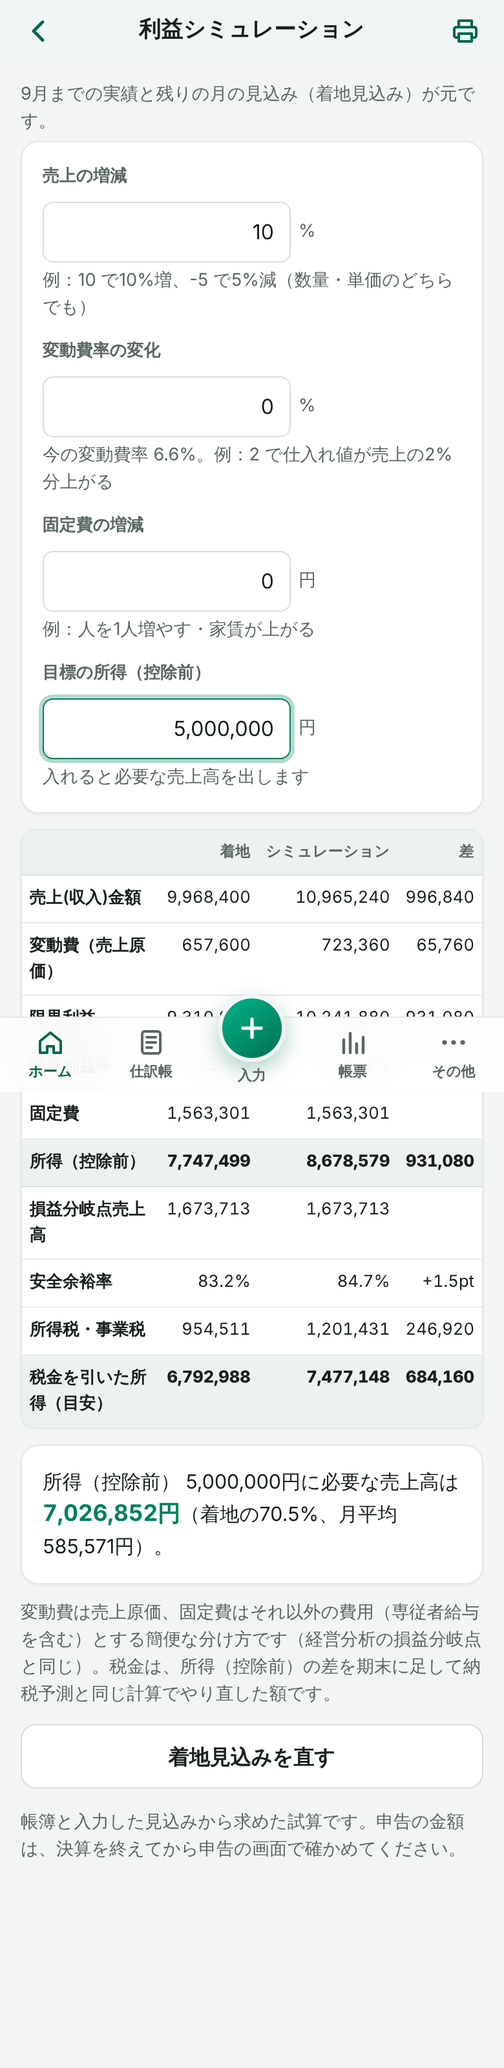
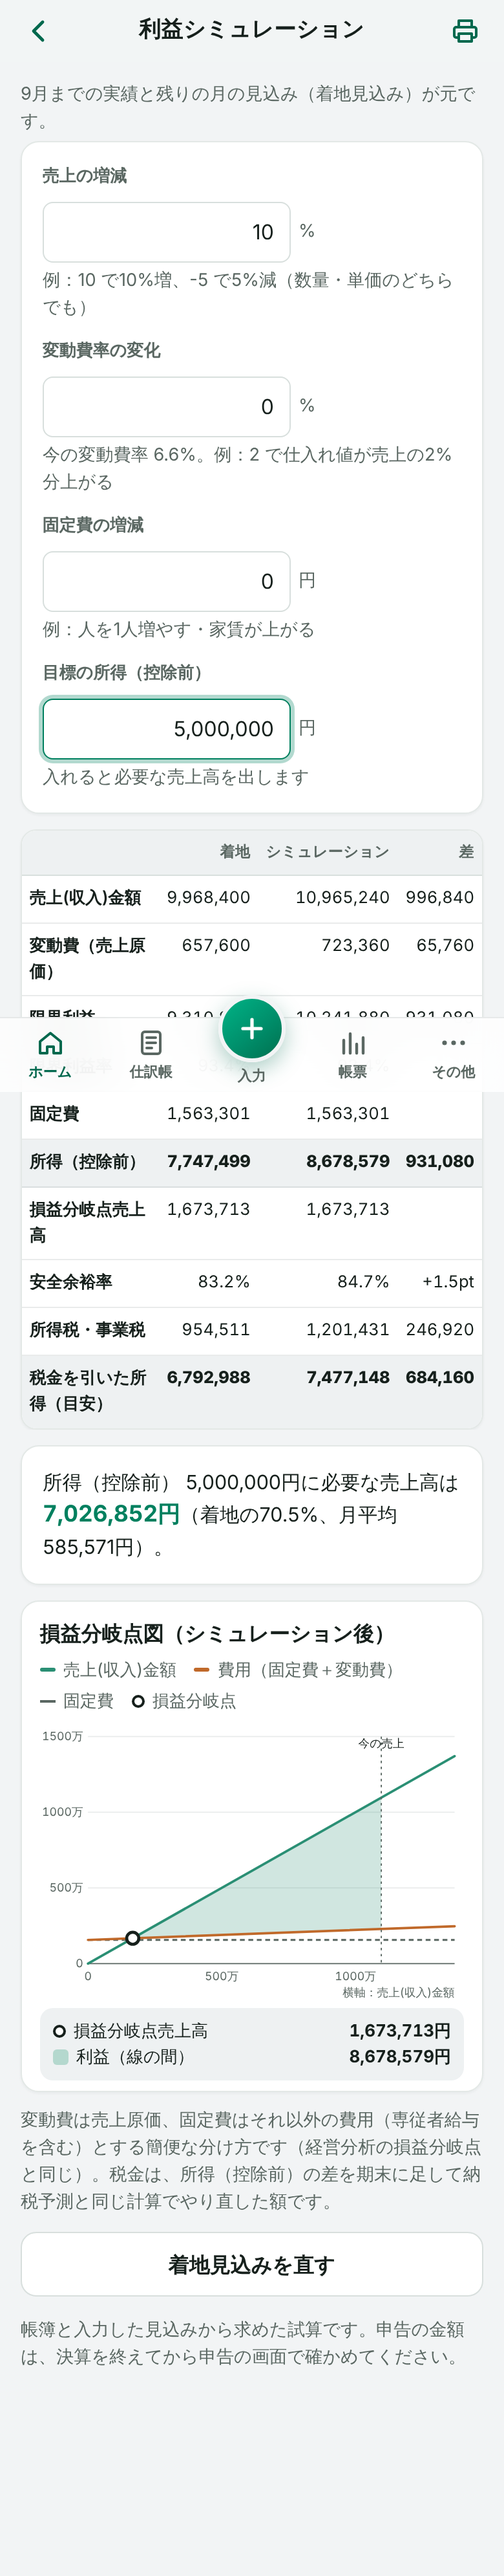
グラフを追加：損益分岐点図・貸借対照表の比例縮尺図・指標の当期前期比較・納付のカレンダー・節税の比較
Claude-Session: https://claude.ai/code/session_01S9p1vYnHBJ4ErFDDdxAS1g

diff --git a/js/chart.js b/js/chart.js
@@ -190,3 +190,135 @@ export function lineChart({ labels, series, title, planFrom = labels.length }) {
   );
   return h('figure', { class: 'chart panel' }, h('figcaption', { class: 'chart-title', text: title }), legend, h('div', { class: 'chart-area' }, svgEl), tip);
 }
+
+/**
+ * 横棒の比較（CSS の棒。1行に1〜2本）
+ * @param {{ title: string, rows: Array<{ label: string, sub?: string, values: Array<number|null> }>, series: Array<{ label: string, cls: string }>, format: (v:number)=>string, scale?: 'all'|'row' }} opts
+ *   scale：'all' はすべての行で同じ物差し、'row' は行ごとに一番大きい値を100%にする（桁の違う指標を並べるとき）
+ *   cls：棒の色のクラス（hb-1：--chart-1、hb-2：--chart-2、hb-3：--chart-2 を薄く）。負の値は長さ0で、数字だけ出す
+ * @returns {HTMLElement}
+ */
+export function hBarChart({ title, rows, series, format, scale = 'all' }) {
+  const maxOf = (xs) => Math.max(1, ...xs.filter((v) => v !== null && v > 0));
+  const allMax = maxOf(rows.flatMap((r) => r.values));
+  const pct = (v, max) => (v === null || v <= 0 ? 0 : Math.max(1, Math.round((v * 1000) / max) / 10));
+  const legend = series.length > 1 ? h('div', { class: 'ch-legend' }, series.map((s) => h('span', { class: 'ch-key' }, h('span', { class: `ch-sw ${s.cls}` }), s.label))) : null;
+  return h(
+    'figure',
+    { class: 'chart panel hbar' },
+    h('figcaption', { class: 'chart-title', text: title }),
+    legend,
+    h(
+      'div',
+      { class: 'hbar-rows', role: 'list' },
+      rows.map((r) => {
+        const max = scale === 'row' ? maxOf(r.values) : allMax;
+        return h(
+          'div',
+          { class: 'hbar-row', role: 'listitem' },
+          h('div', { class: 'hbar-label' }, h('span', { text: r.label }), r.sub ? h('span', { class: 'muted small', text: r.sub }) : null),
+          r.values.map((v, i) =>
+            h(
+              'div',
+              { class: 'hbar-line' },
+              h('span', { class: 'hbar-track', 'aria-hidden': 'true' }, h('span', { class: `hbar-bar ${series[i].cls}`, style: `width:${pct(v, max)}%` })),
+              h('span', { class: `hbar-num num ${v < 0 ? 'neg' : ''}`, 'aria-label': `${series[i].label} ${v === null ? 'なし' : format(v)}`, text: v === null ? '—' : format(v) }),
+            ),
+          ),
+        );
+      }),
+    ),
+  );
+}
+
+/**
+ * 損益分岐点図：横軸は売上高、縦軸は金額。売上の線（原点から45度）と総費用の線（固定費＋変動費率×売上）が交わる点が損益分岐点
+ * @param {{ sales: number, variable: number, fixed: number, title: string, salesLabel?: string }} p 着地（またはシミュレーション後）の数字
+ * @returns {HTMLElement|null} 売上が0以下なら null
+ */
+export function breakEvenChart({ sales, variable, fixed, title, salesLabel = '売上高' }) {
+  if (sales <= 0) return null;
+  const rate = variable / sales; // 表示のための比（金額の計算には使わない）
+  const marginal = sales - variable;
+  const point = marginal > 0 && fixed > 0 ? Math.round((fixed * sales) / marginal) : marginal > 0 ? 0 : null;
+  const xMax = Math.max(sales, point ?? 0) * 1.25;
+  const cost = (x) => fixed + rate * x;
+  const ticks = axisTicks([0, xMax, cost(xMax), fixed]);
+  const lo = Math.min(0, ticks[0]);
+  const hi = ticks.at(-1);
+  const W = 360;
+  const H = 230;
+  const pad = { l: 44, r: 12, t: 12, b: 30 };
+  const xs = (x) => pad.l + (x / xMax) * (W - pad.l - pad.r);
+  const ys = (v) => pad.t + ((hi - v) / (hi - lo)) * (H - pad.t - pad.b);
+  const xTicks = axisTicks([0, xMax]).filter((t) => t >= 0 && t <= xMax);
+  const grid = ticks.map((t) => s('g', {}, s('line', { x1: pad.l, x2: W - pad.r, y1: ys(t), y2: ys(t), class: t === 0 ? 'ch-zero' : 'ch-grid' }), s('text', { x: pad.l - 4, y: ys(t) + 3, class: 'ch-tick', 'text-anchor': 'end' }, compactYen(t))));
+  const xLabels = xTicks.map((t) => s('text', { x: xs(t), y: H - 16, class: 'ch-tick', 'text-anchor': 'middle' }, compactYen(t)));
+  const profit = sales - variable - fixed;
+  // 利益（黒字）は売上の線と費用の線の間を塗る
+  const area = s('polygon', { points: `${xs(sales)},${ys(sales)} ${xs(sales)},${ys(cost(sales))} ${point !== null ? `${xs(point)},${ys(point)}` : ''}`, class: profit >= 0 ? 'be-profit' : 'be-loss' });
+  const svgEl = s(
+    'svg',
+    { viewBox: `0 0 ${W} ${H}`, class: 'chart-svg', role: 'img', 'aria-label': `${title}：損益分岐点売上高 ${point === null ? 'なし' : `${formatYen(point)}円`}、${salesLabel} ${formatYen(sales)}円` },
+    grid,
+    point !== null ? area : null,
+    s('line', { x1: xs(0), y1: ys(fixed), x2: xs(xMax), y2: ys(fixed), class: 'be-fixed' }),
+    s('line', { x1: xs(0), y1: ys(0), x2: xs(xMax), y2: ys(xMax), class: 'ch-line ch-line-1' }),
+    s('line', { x1: xs(0), y1: ys(fixed), x2: xs(xMax), y2: ys(cost(xMax)), class: 'ch-line' }),
+    s('line', { x1: xs(sales), y1: pad.t, x2: xs(sales), y2: H - pad.b, class: 'be-now' }),
+    s('text', { x: xs(sales), y: pad.t + 9, class: 'ch-tick be-now-label', 'text-anchor': xs(sales) > W - 60 ? 'end' : 'middle' }, '今の売上'),
+    point !== null ? s('circle', { cx: xs(point), cy: ys(point), r: 5, class: 'be-point' }) : null,
+    s('text', { x: W - pad.r, y: H - 3, class: 'ch-tick', 'text-anchor': 'end' }, `横軸：${salesLabel}`),
+    xLabels,
+  );
+  const legend = h(
+    'div',
+    { class: 'ch-legend' },
+    h('span', { class: 'ch-key' }, h('span', { class: 'ch-sw ch-sw-line1' }), salesLabel),
+    h('span', { class: 'ch-key' }, h('span', { class: 'ch-sw ch-sw-line' }), '費用（固定費＋変動費）'),
+    h('span', { class: 'ch-key' }, h('span', { class: 'ch-sw be-sw-fixed' }), '固定費'),
+    h('span', { class: 'ch-key' }, h('span', { class: 'ch-sw be-sw-point' }), '損益分岐点'),
+  );
+  const readout = h(
+    'div',
+    { class: 'ch-readout' },
+    h('div', { class: 'ch-tip-row' }, h('span', { class: 'ch-sw be-sw-point' }), h('span', { text: '損益分岐点売上高' }), h('span', { class: 'num', text: point === null ? '—（限界利益がマイナス）' : `${formatYen(point)}円` })),
+    h('div', { class: 'ch-tip-row' }, h('span', { class: `ch-sw ${profit >= 0 ? 'be-sw-profit' : 'be-sw-loss'}` }), h('span', { text: profit >= 0 ? '利益（線の間）' : '損失（線の間）' }), h('span', { class: `num ${profit < 0 ? 'neg' : ''}`, text: `${formatYen(profit)}円` })),
+  );
+  return h('figure', { class: 'chart panel' }, h('figcaption', { class: 'chart-title', text: title }), legend, h('div', { class: 'chart-area' }, svgEl), readout);
+}
+
+/**
+ * 貸借対照表の比例縮尺図（左に資産、右に負債・純資産を金額の大きさで積む）
+ * @param {{ title: string, left: Array<{label, value}>, right: Array<{label, value}> }} p right の純資産が負（債務超過）なら左に「債務超過」の箱を足す
+ * @returns {HTMLElement}
+ */
+export function bsBoxChart({ title, left, right }) {
+  const pos = (xs) => xs.filter((x) => x.value > 0);
+  const net = right.find((x) => x.net);
+  const deficit = net && net.value < 0 ? -net.value : 0;
+  const leftBoxes = [...pos(left), ...(deficit ? [{ label: '債務超過', value: deficit, deficit: true }] : [])];
+  const rightBoxes = pos(right);
+  const total = Math.max(1, leftBoxes.reduce((t, x) => t + x.value, 0), rightBoxes.reduce((t, x) => t + x.value, 0));
+  const col = (boxes, side) =>
+    h(
+      'div',
+      { class: `bsbox-col bsbox-${side}` },
+      boxes.map((b, i) =>
+        h(
+          'div',
+          { class: `bsbox-box bsbox-${side}-${i}${b.deficit ? ' bsbox-deficit' : ''}${b.net ? ' bsbox-net' : ''}${b.value * 100 < total * 12 ? ' is-small' : ''}`, style: `flex-grow:${b.value}` },
+          h('span', { class: 'bsbox-name', text: b.label }),
+          h('span', { class: 'bsbox-val num', text: `${compactYen(b.value)}（${Math.round((b.value * 100) / total)}%）` }),
+        ),
+      ),
+    );
+  const sumL = left.reduce((t, x) => t + Math.max(0, x.value), 0);
+  return h(
+    'figure',
+    { class: 'chart panel bsbox' },
+    h('figcaption', { class: 'chart-title', text: title }),
+    h('div', { class: 'bsbox-grid', role: 'img', 'aria-label': `${title}：${[...leftBoxes, ...rightBoxes].map((b) => `${b.label} ${formatYen(b.value)}円`).join('、')}` }, col(leftBoxes, 'l'), col(rightBoxes, 'r')),
+    h('p', { class: 'muted small', text: `総資産 ${formatYen(sumL)}円。箱の高さは金額に比例します。` }),
+  );
+}

diff --git a/css/style.css b/css/style.css
@@ -1627,3 +1627,44 @@ input.tc-code-input[type="text"] { width: 7.5rem; flex: none; min-height: 40px; 
 .st-bar-cash, .st-sw-cash { background: var(--chart-1); }
 .sim-check { display: flex; align-items: center; gap: 8px; }
 .sim-inputs-sub[hidden] { display: none; }
+
+/* 横棒の比較 */
+.hbar-rows { display: grid; gap: 10px; margin: 4px 4px 2px; }
+.hbar-label { display: flex; flex-wrap: wrap; gap: 2px 8px; align-items: baseline; font-size: var(--fs-footnote); font-weight: 700; }
+.hbar-line { display: grid; grid-template-columns: 1fr auto; align-items: center; gap: 8px; margin-top: 3px; }
+.hbar-track { display: block; height: 10px; border-radius: 5px; background: var(--surface-2); overflow: hidden; }
+.hbar-bar { display: block; height: 100%; border-radius: 5px; }
+.hbar-num { font-size: var(--fs-footnote); min-width: 6.5em; text-align: right; }
+.hb-1 { background: var(--chart-1); }
+.hb-2 { background: var(--chart-2); }
+.hb-3 { background: color-mix(in srgb, var(--chart-2) 40%, var(--surface)); }
+.hb-4 { background: color-mix(in srgb, var(--chart-1) 40%, var(--surface)); }
+
+/* 損益分岐点図 */
+.be-fixed { stroke: var(--muted); stroke-width: 1.5; stroke-dasharray: 4 3; }
+.be-now { stroke: var(--muted); stroke-width: 1; stroke-dasharray: 2 3; }
+.be-now-label { fill: var(--text); }
+.be-point { fill: var(--surface); stroke: var(--text); stroke-width: 2.5; }
+.be-profit { fill: color-mix(in srgb, var(--chart-1) 22%, transparent); }
+.be-loss { fill: color-mix(in srgb, var(--negative) 18%, transparent); }
+.be-sw-fixed { height: 0; border-top: 2px dashed var(--muted); border-radius: 0; background: none; }
+.be-sw-point { border: 2.5px solid var(--text); border-radius: 50%; background: var(--surface); width: 10px; height: 10px; }
+.be-sw-profit { background: color-mix(in srgb, var(--chart-1) 35%, var(--surface)); }
+.be-sw-loss { background: color-mix(in srgb, var(--negative) 30%, var(--surface)); }
+
+/* 貸借対照表の比例縮尺図 */
+.bsbox-grid { display: grid; grid-template-columns: 1fr 1fr; gap: 3px; height: 260px; margin: 4px; }
+.bsbox-col { display: flex; flex-direction: column; gap: 3px; min-height: 0; }
+.bsbox-box { flex-basis: 0; min-height: 24px; border-radius: 6px; padding: 4px 6px; display: flex; flex-direction: column; justify-content: center; align-items: flex-start; overflow: hidden; color: #fff; font-size: 0.72rem; line-height: 1.25; }
+.bsbox-box.is-small { flex-direction: row; flex-wrap: wrap; align-items: center; gap: 0 6px; padding: 2px 6px; font-size: 0.64rem; }
+.bsbox-name { font-weight: 800; }
+.bsbox-val { opacity: 0.95; }
+.bsbox-l-0 { background: var(--chart-1); }
+.bsbox-l-1 { background: color-mix(in srgb, var(--chart-1) 70%, #000); }
+.bsbox-l-2 { background: color-mix(in srgb, var(--chart-1) 55%, var(--surface)); color: var(--text); }
+.bsbox-r-0 { background: var(--chart-2); }
+.bsbox-r-1 { background: color-mix(in srgb, var(--chart-2) 70%, #000); }
+.bsbox-net { background: color-mix(in srgb, var(--chart-2) 35%, var(--surface)); color: var(--text); }
+.bsbox-deficit { background: repeating-linear-gradient(45deg, color-mix(in srgb, var(--negative) 35%, var(--surface)) 0 6px, var(--surface) 6px 12px); color: var(--negative); border: 1px solid var(--negative); }
+.bsbox-pair { display: grid; gap: var(--sp-2); }
+@media (min-width: 700px) { .bsbox-pair { grid-template-columns: 1fr 1fr; } }

diff --git a/js/views/analysis.js b/js/views/analysis.js
@@ -5,6 +5,7 @@ import { openingRows, formatPermille } from '../compare.js';
 import { bsFigures, plFigures, indicators, formatMonths } from '../analysis.js';
 import { formatPeriod, monthsInPeriod } from '../period.js';
 import { formatYen } from '../money.js';
+import { hBarChart, bsBoxChart } from '../chart.js';
 import { loadPrevious } from './report-common.js';
 import { isWhite } from '../white-return.js';
 
@@ -29,12 +30,32 @@ export async function render({ app, outlet }) {
     white,
   });
   const noSales = pl.profits.sales <= 0;
+  const curBs = bsFigures(closingRows({ accounts, period, journals }));
+  const prevBs = bsFigures(openingRows({ accounts, period }));
+  const box = (title, b) =>
+    bsBoxChart({
+      title,
+      left: [{ label: '流動資産', value: b.currentAssets }, { label: '固定資産', value: b.fixedAssets }, { label: '繰延資産', value: b.totalAssets - b.currentAssets - b.fixedAssets }],
+      right: [{ label: '流動負債', value: b.currentLiabilities }, { label: '固定負債', value: b.liabilities - b.currentLiabilities }, { label: entityType === 'individual' ? '元入金など' : '純資産', value: b.netAssets, net: true }],
+    });
+  // 比率（％）の指標を当期・前期の横棒で
+  const ratioRows = current
+    .slice(0, 2)
+    .flatMap((sec, si) => sec.items.map((it, i) => ({ it, prev: prior[si].items[i] })))
+    .filter(({ it }) => it.unit === 'permille')
+    .map(({ it, prev }) => ({ label: it.label, values: [it.value, prev.value] }));
 
   put(
     outlet,
     h('p', { class: 'muted small', text: `${settings.businessName}　当期 ${formatPeriod(period)}${previous ? `／前期 ${formatPeriod(previous.period)}` : ''}` }),
     noSales ? h('p', { class: 'notice', text: '当期の売上がまだないため、売上を使う指標は「—」になります。' }) : null,
     previous ? null : h('p', { class: 'muted small', text: 'このアプリに前期の帳簿がないため、前期の列は期首残高（前期末）から求められる指標（安全性と運転資本）だけを出します。' }),
+    h(
+      'section',
+      { class: 'no-print' },
+      h('div', { class: 'bsbox-pair' }, box('貸借対照表の形（当期末）', curBs), prevBs.totalAssets > 0 ? box('貸借対照表の形（前期末）', prevBs) : null),
+      ratioRows.some((r) => r.values.some((v) => v !== null)) ? hBarChart({ title: '収益性・安全性の指標（当期と前期）', rows: ratioRows, series: [{ label: '当期', cls: 'hb-1' }, { label: '前期', cls: 'hb-4' }], format: (v) => formatPermille(v), scale: 'row' }) : null,
+    ),
     current.map((sec, si) =>
       h(
         'section',

diff --git a/js/views/advisor-saving.js b/js/views/advisor-saving.js
@@ -1,4 +1,5 @@
 // 節税・税制の提案：着地見込みの利益から、決算までに打てる手と来期から使える制度を、減る税金の試算つきで並べる
+import { hBarChart } from '../chart.js';
 import { h, put, errorBox } from '../ui.js';
 import { formatYen, parseYen } from '../money.js';
 import { taxSavingPlan, NATURE_LABELS, TIMING_LABELS } from '../advisor/tax-saving.js';
@@ -36,6 +37,14 @@ export async function render({ app, outlet, isStale }) {
         ? h('p', { class: 'notice small', text: `費用を使って税金を減らすと、減る税金（約${(marginal.permille / 10).toFixed(1)}%）より出ていくお金のほうが大きいので、手元のお金は減ります。必要な支出かどうかを先に考え、そのうえで時期と制度を選んでください。` })
         : h('p', { class: 'notice small', text: '所得が出ない見込みなので、費用を増やしても当期の税金は減りません（法人の住民税の均等割などは所得が無くてもかかります）。来期から使える制度と、消費税の計算方法を確かめてください。' }),
       plan.canSim ? null : h('p', { class: 'notice', text: '雑費または現金・預金の科目が無いため、減る税金を計算できません。' }),
+      plan.proposals.some((p) => p.applicable && (p.cash > 0 || p.saving > 0))
+        ? hBarChart({
+            title: '使うお金と減る税金',
+            rows: plan.proposals.filter((p) => p.applicable && (p.cash > 0 || p.saving > 0)).map((p) => ({ label: p.title, values: [p.cash || 0, p.saving || 0] })),
+            series: [{ label: '使うお金（出ていく・積み立てる額）', cls: 'hb-4' }, { label: '減る税金', cls: 'hb-2' }],
+            format: (v) => yen(v),
+          })
+        : null,
       groups.map(([t, list]) => [h('h2', { class: 'section-title', text: TIMING_LABELS[t] }), list.map(card)]),
       errorsEl,
     );

diff --git a/js/views/advisor-tax.js b/js/views/advisor-tax.js
@@ -1,6 +1,7 @@
 // 納税予測：着地見込みの利益から、納める税金（税目・年税額・中間納付・差引納付額・納期限）を出す
 import { h, put, amountCell } from '../ui.js';
 import { formatYen } from '../money.js';
+import { hBarChart } from '../chart.js';
 import { TAX_METHODS } from '../tax-return.js';
 import { loadAdvisor, estimateNote, monthLabel } from './advisor-common.js';
 
@@ -71,6 +72,14 @@ export async function render({ app, outlet }) {
     h('p', { class: 'muted small', text: through }),
     h('h2', { class: 'section-title', text: '納める税金' }),
     items.length ? table : h('p', { class: 'muted', text: '納める税金の見込みはありません。' }),
+    items.some((i) => i.due > 0)
+      ? hBarChart({
+          title: '納付のカレンダー（納期限の順）',
+          rows: [...items].filter((i) => i.due > 0).sort((a, b) => a.deadline.localeCompare(b.deadline)).map((i) => ({ label: slash(i.deadline), sub: i.label, values: [i.due] })),
+          series: [{ label: '差引納付額', cls: 'hb-2' }],
+          format: (v) => `${formatYen(v)}円`,
+        })
+      : null,
     taxes.notes.map((n) => h('p', { class: 'muted small', text: n })),
     compare ? [h('h2', { class: 'section-title', text: '消費税の計算方法ごとの税額' }), compare, h('p', { class: 'muted small', text: '簡易課税は、原則として適用したい課税期間が始まる前に届出が必要です。2割特例は個人は令和8年分まで、3割特例は登録を機に課税事業者になった個人の令和9年分・10年分に使えます（国税庁）。' })] : null,
     h('h2', { class: 'section-title', text: '計算の条件を直す' }),

diff --git a/js/views/advisor-simulation.js b/js/views/advisor-simulation.js
@@ -1,6 +1,7 @@
 // 利益シミュレーション：着地見込みをもとに、売上・変動費率・固定費を動かしたときの利益・損益分岐点・税引後の利益を出す
 import { h, put, amountCell, errorBox } from '../ui.js';
 import { formatYen, parseYen } from '../money.js';
+import { breakEvenChart } from '../chart.js';
 import { simulateProfit, baseFromPl, taxesAtDelta, DEFAULT_SIMULATION } from '../advisor/simulation.js';
 import { loadAdvisor, estimateNote, monthLabel } from './advisor-common.js';
 
@@ -93,6 +94,7 @@ export async function render({ app, outlet, isStale }) {
       r.required !== null
         ? h('p', { class: 'panel sim-required' }, `${profitWord} ${formatYen(input.targetProfit)}円に必要な売上高は `, h('strong', { class: 'num', text: `${formatYen(r.required)}円` }), r.base.sales > 0 ? `（着地の${pctText(Math.round((r.required * 1000) / r.base.sales))}、月平均 ${formatYen(Math.ceil(r.required / landing.months.length))}円）` : '', '。')
         : null,
+      breakEvenChart({ ...r.sim, title: r.sim.sales === r.base.sales && r.sim.fixed === r.base.fixed && r.sim.variable === r.base.variable ? '損益分岐点図（着地）' : '損益分岐点図（シミュレーション後）', salesLabel: corp ? '売上高' : '売上(収入)金額' }),
     );
   }
 

diff --git a/js/changelog.js b/js/changelog.js
@@ -9,6 +9,16 @@
 
 export const CHANGELOG = [
   {
+    version: '0.95.0',
+    date: '2026-10-31',
+    title: '損益分岐点図・貸借対照表の図など、グラフを追加',
+    items: [
+      '利益シミュレーションに損益分岐点図を加えました。売上の線と費用の線が交わる点が損益分岐点で、線の間が利益（または損失）です。数字を変えると図も変わります',
+      '経営分析に、貸借対照表の形（資産と負債・純資産の大きさを箱の高さで比べる図）を当期末・前期末で加えました。収益性・安全性の指標は、当期と前期を横棒で比べられます',
+      '納税予測に納付のカレンダー（納期限の順に納める額の横棒）を、節税・税制の提案に「使うお金」と「減る税金」の比較の横棒を加えました',
+    ],
+  },
+  {
     version: '0.94.0',
     date: '2026-10-31',
     title: '法人税申告に法人事業概況説明書を追加',

diff --git a/sw.js b/sw.js
@@ -1,6 +1,6 @@
 // Service Worker
 // ファイルを変更したら CACHE_VERSION を上げる。ファイルを追加・削除したら PRECACHE_URLS も更新する（npm run check で検出）
-const CACHE_VERSION = 'v102';
+const CACHE_VERSION = 'v103';
 const CACHE_NAME = `pocket-kaikei-${CACHE_VERSION}`;
 
 // 事前にキャッシュするファイル（相対パス）

diff --git a/js/version.js b/js/version.js
@@ -1,2 +1,2 @@
 // 利用者に見せるバージョン。リリースのたびに上げる
-export const APP_VERSION = '0.94.0';
+export const APP_VERSION = '0.95.0';

diff --git a/docs/spec-phase4-advisor.md b/docs/spec-phase4-advisor.md
@@ -149,3 +149,10 @@
 | 特例承継計画の提出 令和9年9月30日まで、贈与・相続 令和9年12月31日まで、親族外も可（最大3人） | 中小企業庁「事業承継税制（法人版）」 |
 
 - 未確認：一般措置の数字（議決権3分の2・相続80%）、贈与時の役員3年以上などの要件は一般に知られた内容で、中小企業庁のページ本文では確かめていない
+
+## 第10弾：グラフの追加（v0.94.0）
+
+- たかと（2026-10-31）：「他の機能でもグラフや図を追加した方が分かりやすいものがあれば」→ 提案5つを「マージして進めて」で全部実施
+- js/chart.js に追加：breakEvenChart（損益分岐点図。横軸は売上高、売上の線・総費用の線・固定費の破線・今の売上・分岐点、線の間を利益／損失で塗る）、bsBoxChart（貸借対照表の比例縮尺図。債務超過は左に斜線の箱）、hBarChart（CSS の横棒。scale 'row' で行ごとの物差し）
+- 置き場所：利益シミュレーション（シミュレーション後の数字）、経営分析（当期末・前期末の図と、％の指標の当期・前期の横棒。印刷には出さない）、納税予測（納付のカレンダー）、節税の提案（使うお金と減る税金）
+- 確認用：scripts/advisor-chart-shots.cjs（法人・小売・個人のサンプル3期分）
